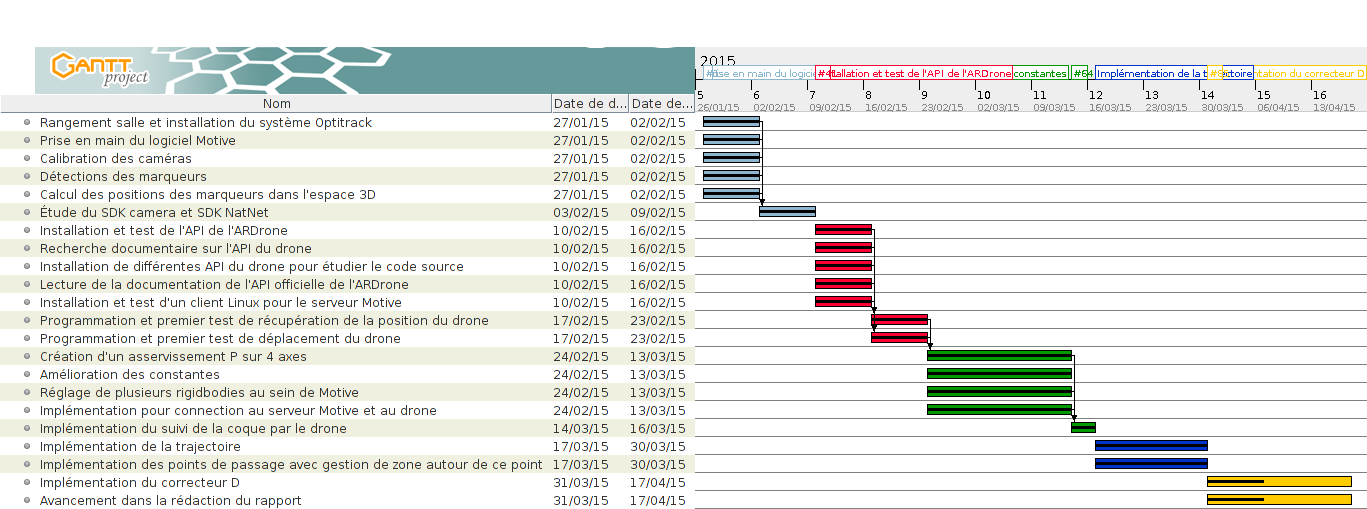
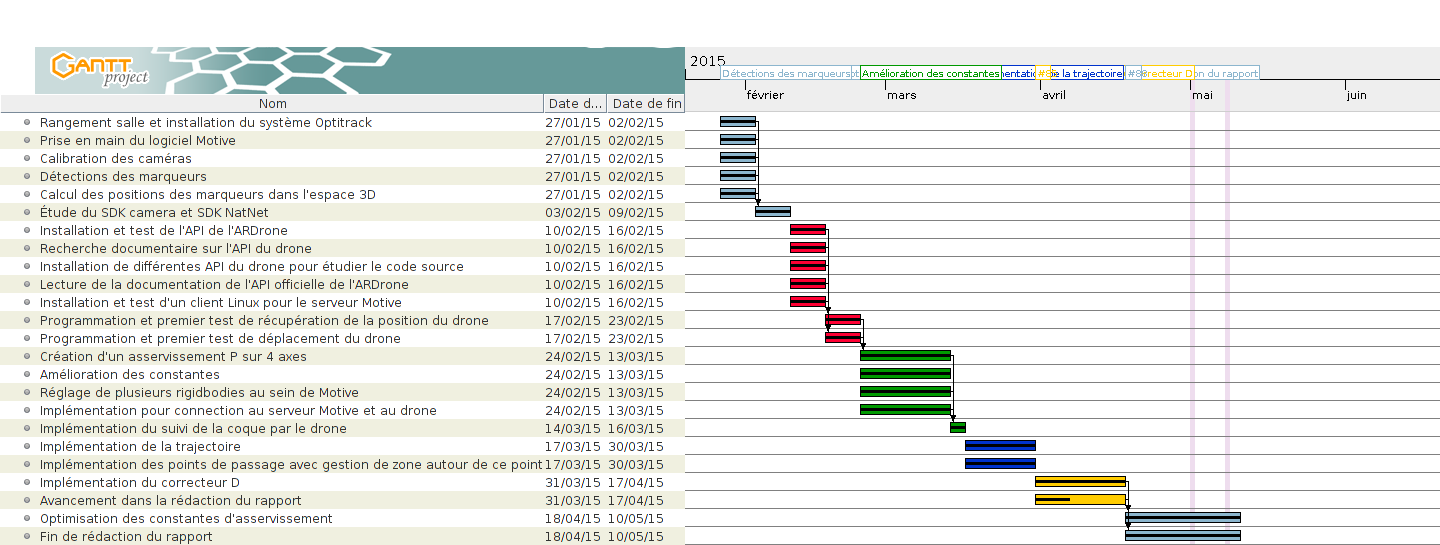
feat(rapport): update the planning for Gantt and report

diff --git a/rapport/4.calendrier.tex b/rapport/4.calendrier.tex
@@ -3,7 +3,7 @@
 %============= Calendrier ===================
 \section{Calendrier}
 
-	Nous travaillons sur la base d'objectifs d'une durée de 2 semaines maximum. Cela permet de faire un point toutes les 2 semaines avec le responsable du PAO, M. Guerrero, afin d'orienter les objectifs suivants.
+	Nous travaillons sur la base d'objectifs d'une durée de 2 semaines. Cela permet de faire un point toutes les 2 semaines avec le responsable du PAO, M. Guerrero, afin d'orienter les objectifs suivants.
 
 % ============= Répartition des tâches ===================
 \section{Répartition des tâches}
@@ -13,8 +13,6 @@
 	\hspace{-1cm}
 	\begin{tabular}{|@{}l@{}l}
 		\includegraphics[width=24cm,angle=90]{images/plannification.png}
-	% &
-	% 	\includegraphics[width=24cm,angle=90]{images/repartitionCharge.png}
 	 \end{tabular}
 	 \caption{Planning}
 	 \end{figure}

diff --git a/rapport/5.suivi_de_projet.tex b/rapport/5.suivi_de_projet.tex
@@ -77,3 +77,16 @@
 		\end{itemize}
 
 		Temps estimé: 12h.
+
+
+	%============= Compte rendu à la date du 10/05 ==============
+	\section{Compte rendu à la date du 10/05}
+		L'objectif de cette période était de terminer l'optimisation des constantes d'asservissement et la rédaction du rapport.
+
+		Tâches effectuées:
+		\begin{itemize}
+			\item Optimisation des constantes d'asservissement;
+			\item Clôture de la rédaction du rapport. \\
+		\end{itemize}
+
+		Temps estimé: 12h.
